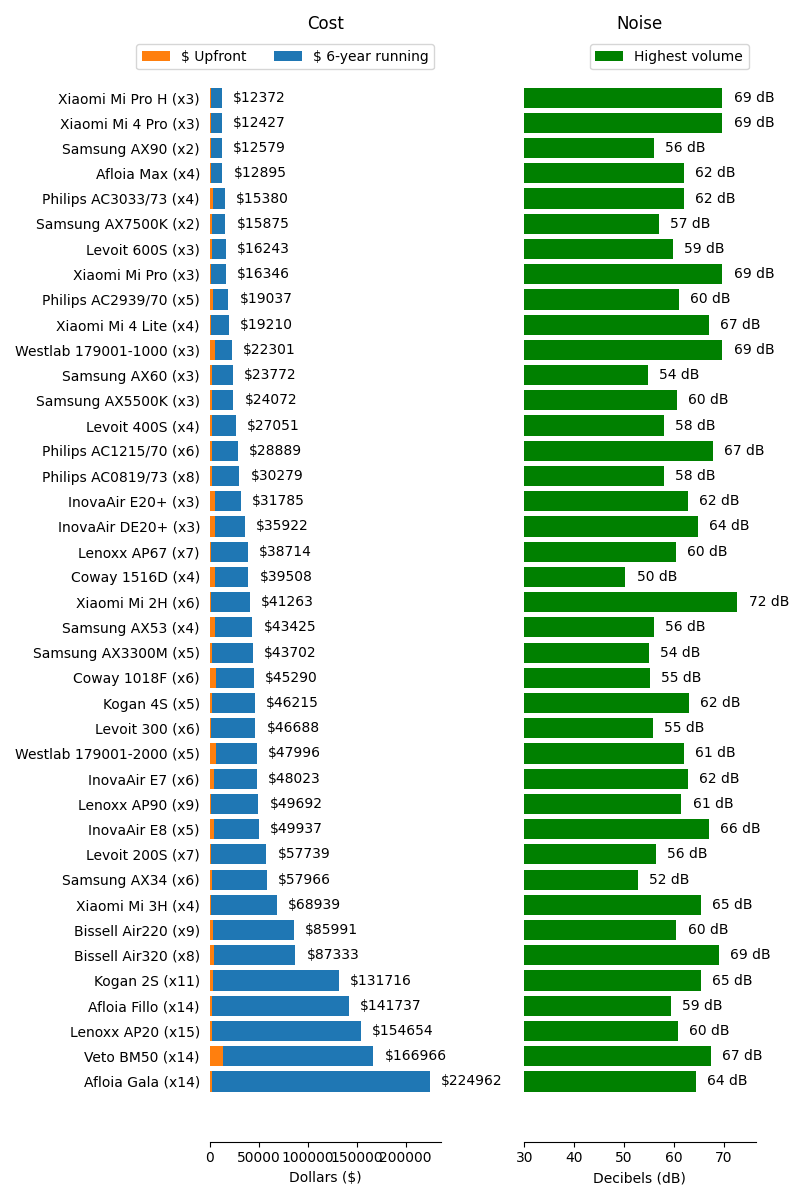
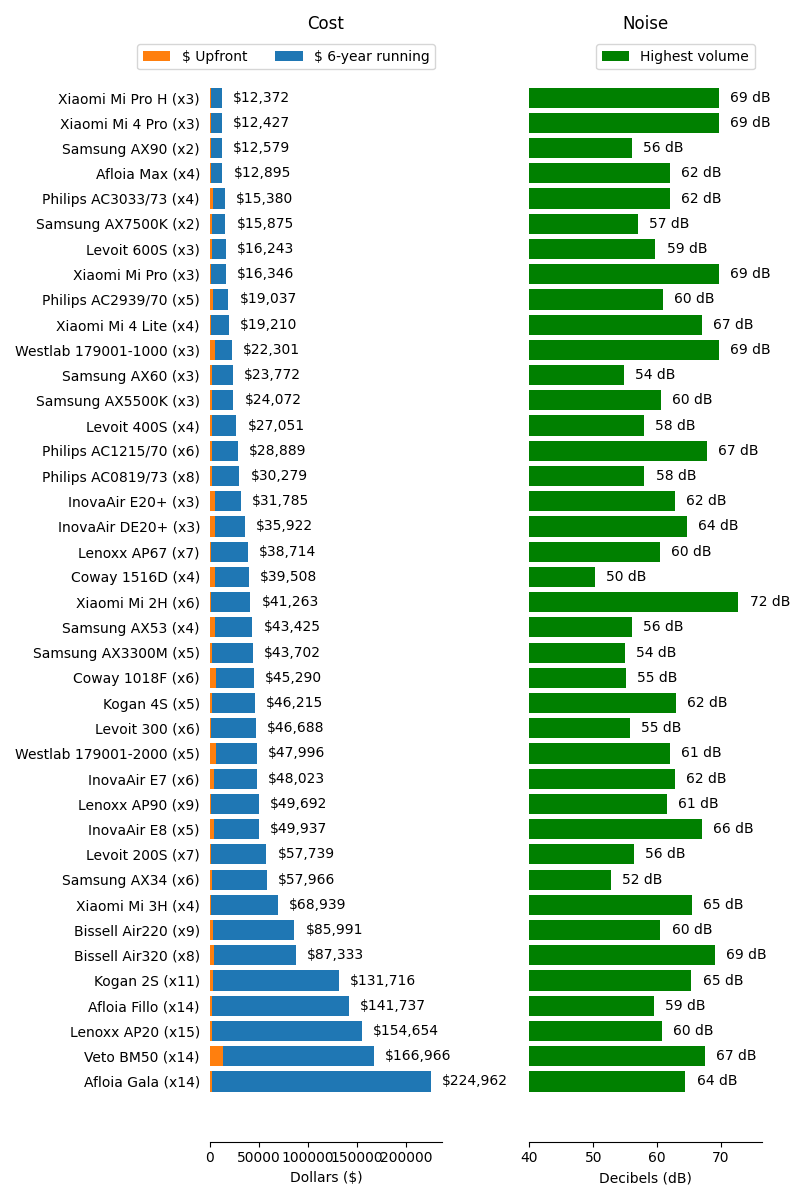
Quick push

diff --git a/aircleaning/produce.py b/aircleaning/produce.py
@@ -28,6 +28,7 @@ def cost_analysis(data, volume, quality, path=productsdir, name='default'):
             (f' (x{n})' if n>1 else '' for n in data['nunits']),
             )
         ))
+    dollarlabels = tuple(data['nominal'].astype(int).apply('${:,}'.format))
 
     plt.rcdefaults()
     fig, (ax1, ax2) = plt.subplots(ncols=2)
@@ -42,7 +43,10 @@ def cost_analysis(data, volume, quality, path=productsdir, name='default'):
     ax1.invert_yaxis()  # labels read top-to-bottom
     ax1.set_xlabel('Dollars ($)')
     ax1.set_title('Cost')
-    ax1.bar_label(outerbars, label_type='edge', padding=8, fmt='$%d')
+    ax1.bar_label(
+        outerbars, dollarlabels,
+        label_type='edge', padding=8, fmt='$%d',
+        )
     ax1.spines['top'].set_visible(False)
     ax1.spines['right'].set_visible(False)
     ax1.spines['left'].set_visible(False)
@@ -57,7 +61,7 @@ def cost_analysis(data, volume, quality, path=productsdir, name='default'):
     ax2.invert_yaxis()  # labels read top-to-bottom
     ax2.set_xlabel('Decibels (dB)')
     ax2.set_title('Noise')
-    ax2.set_xlim(30)
+    ax2.set_xlim(40)
     ax2.bar_label(bars, label_type='edge', padding=8, fmt='%d dB')
     ax2.spines['top'].set_visible(False)
     ax2.spines['right'].set_visible(False)
